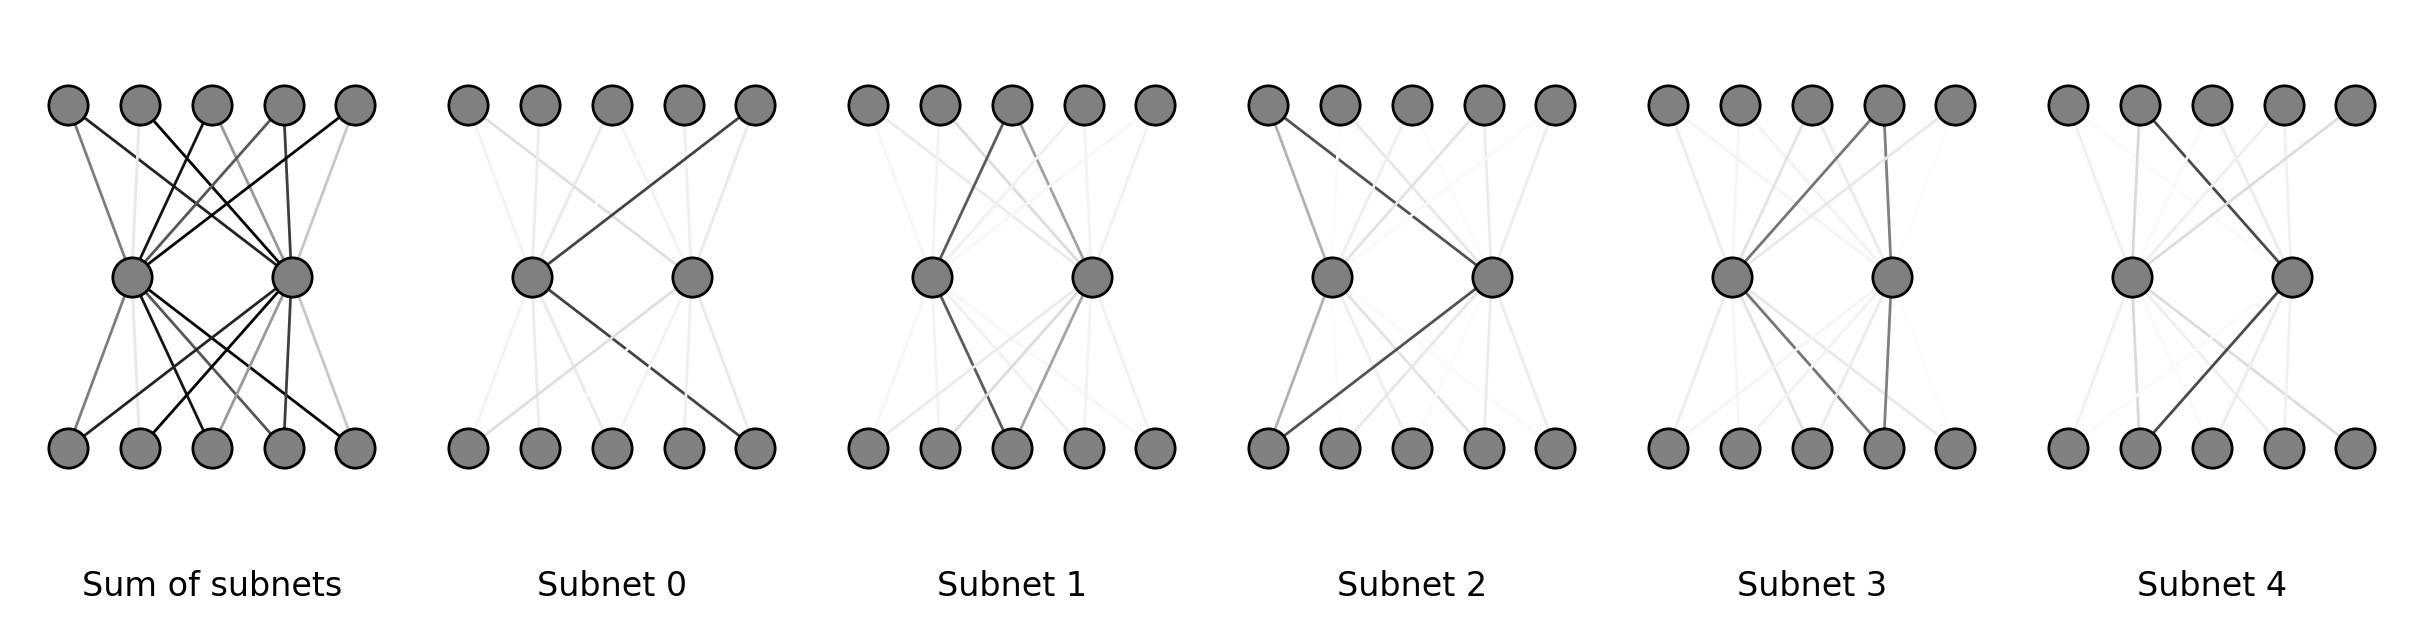
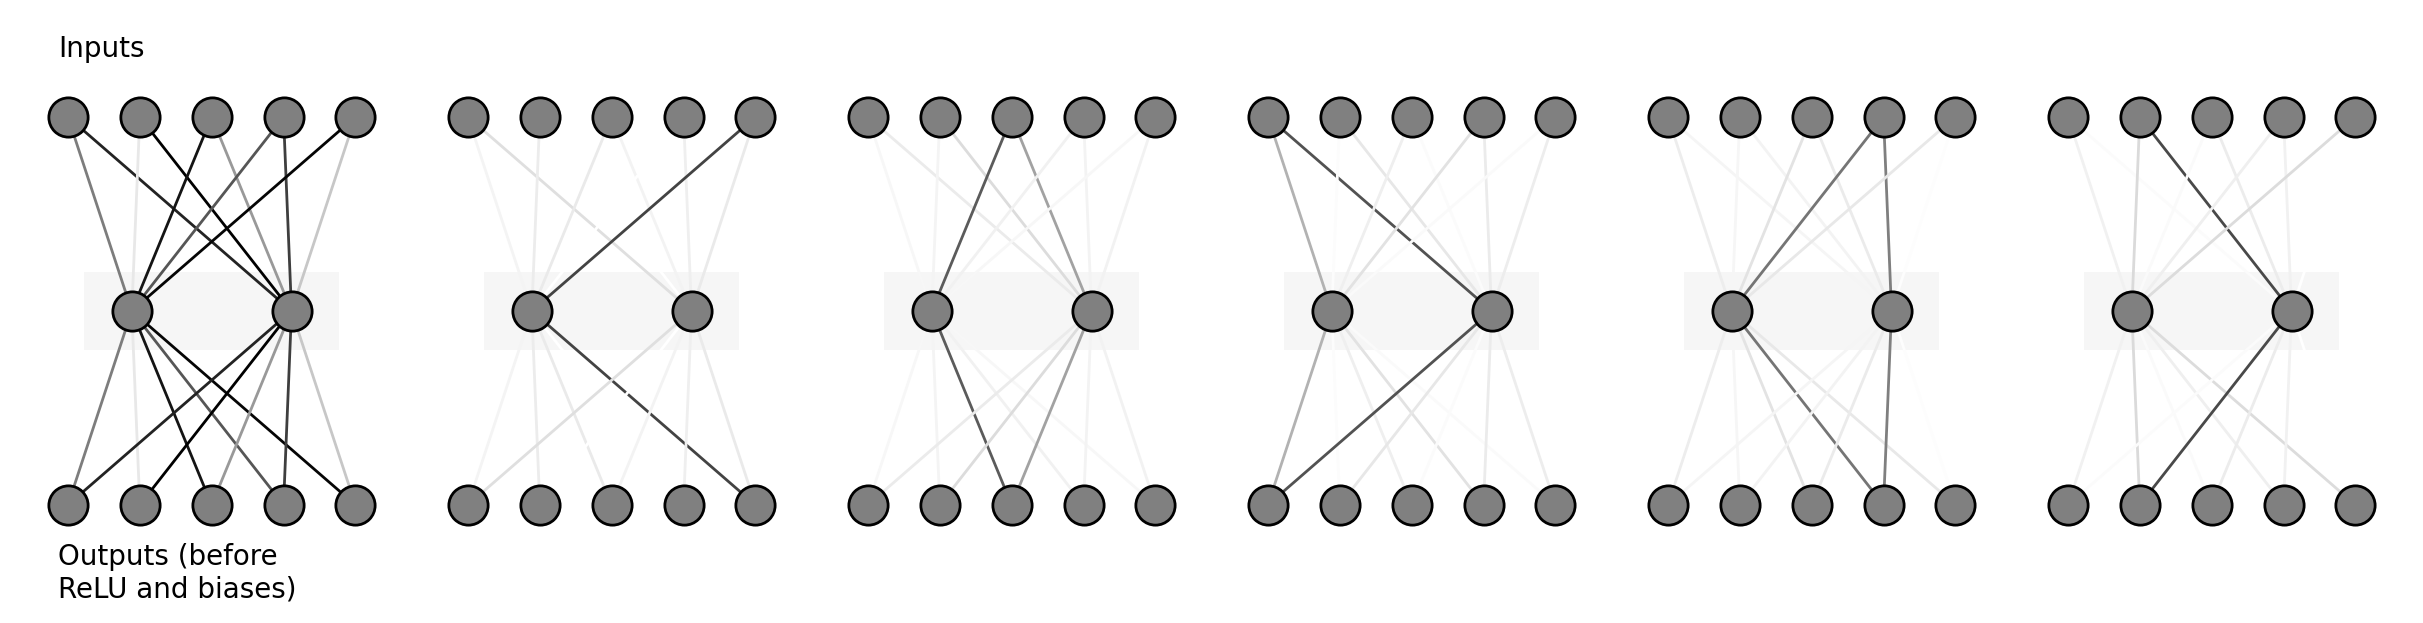
Update plot colors

diff --git a/spd/experiments/tms/interpret.py b/spd/experiments/tms/interpret.py
@@ -52,7 +52,7 @@ def plot_vectors(
 
             ax.set_aspect("equal")
             z = 1.5
-            ax.set_facecolor("#FCFBF8")
+            ax.set_facecolor("#f6f6f6")
             ax.set_xlim((-z, z))
             ax.set_ylim((-z, z))
             ax.tick_params(left=True, right=False, labelleft=False, labelbottom=False, bottom=True)
@@ -75,12 +75,14 @@ def plot_vectors(
 def plot_networks(
     subnets: Float[Tensor, "n_instances n_subnets n_features n_hidden"],
     n_instances: int | None = None,
+    has_labels: bool = True,
 ) -> plt.Figure:
     """Plot neural network diagrams for each W matrix in the subnet variable.
 
     Args:
         subnet: Tensor of shape [n_instances, n_subnets, n_features, n_hidden].
         n_instances: Number of data instances to plot. If None, plot all.
+        has_labels: Whether to add labels to the plot.
 
     Returns:
         Matplotlib Figure object containing the network diagrams.
@@ -109,6 +111,28 @@ def plot_networks(
     )
     axs = np.atleast_2d(np.array(axs))
 
+    # axs[0, 0].set_xlabel("Outputs (before ReLU and biases)")
+    # Add the above but in text because the x-axis is killed
+    axs[0, 0].text(
+        0.1,
+        0.05,
+        "Outputs (before\nReLU and biases)",
+        ha="left",
+        va="center",
+        transform=axs[0, 0].transAxes,
+        fontsize=LABEL_FONT_SIZE,
+    )
+    # Also add "input label"
+    axs[0, 0].text(
+        0.1,
+        0.95,
+        "Inputs",
+        ha="left",
+        va="center",
+        transform=axs[0, 0].transAxes,
+        fontsize=LABEL_FONT_SIZE,
+    )
+
     # Grayscale colormap. darker for larger weight
     cmap = plt.get_cmap("gray_r")
 
@@ -121,6 +145,21 @@ def plot_networks(
             x_input = np.linspace(0.05, 0.95, n_features)
             x_hidden = np.linspace(0.25, 0.75, n_hidden)
             x_output = np.linspace(0.05, 0.95, n_features)
+
+            # Add transparent grey box around hidden layer
+            box_width = 0.8
+            box_height = 0.4
+            box = plt.Rectangle(
+                (0.5 - box_width / 2, y_hidden - box_height / 2),
+                box_width,
+                box_height,
+                fill=True,
+                facecolor="#e4e4e4",
+                edgecolor="none",
+                alpha=0.33,
+                transform=ax.transData,
+            )
+            ax.add_patch(box)
 
             # Plot nodes
             ax.scatter(
@@ -165,29 +204,29 @@ def plot_networks(
             ax.set_xlim(-0.1, 1.1)
             ax.set_ylim(y_output - 0.5, y_input + 0.5)
 
-            # Add labels
-            if i == n_instances - 1:
-                label = "Sum of subnets" if j == 0 else f"Subnet {j - 1}"
-                ax.text(
-                    0.5,
-                    0,
-                    label,
-                    ha="center",
-                    va="center",
-                    transform=ax.transAxes,
-                    fontsize=LABEL_FONT_SIZE,
-                )
-            if j == 0 and n_instances > 1:
-                ax.text(
-                    -0.1,
-                    0.5,
-                    f"Instance {i}",
-                    ha="center",
-                    va="center",
-                    rotation=90,
-                    transform=ax.transAxes,
-                    fontsize=LABEL_FONT_SIZE,
-                )
+            if has_labels:
+                if i == n_instances - 1:
+                    label = "Sum of subnets" if j == 0 else f"Subnet {j - 1}"
+                    ax.text(
+                        0.5,
+                        0,
+                        label,
+                        ha="center",
+                        va="center",
+                        transform=ax.transAxes,
+                        fontsize=LABEL_FONT_SIZE,
+                    )
+                if j == 0 and n_instances > 1:
+                    ax.text(
+                        -0.1,
+                        0.5,
+                        f"Instance {i}",
+                        ha="center",
+                        va="center",
+                        rotation=90,
+                        transform=ax.transAxes,
+                        fontsize=LABEL_FONT_SIZE,
+                    )
 
     return fig
 
@@ -200,11 +239,14 @@ if __name__ == "__main__":
         config = Config(**config_dict)
 
     assert config.full_rank, "This script only works for full rank models"
-    subnet = torch.load(pretrained_path, map_location="cpu")["subnetwork_params"]
-    vector_fig = plot_vectors(subnet, n_instances=1)
+    model = torch.load(pretrained_path, map_location="cpu", weights_only=True)
+    subnets = model["subnetwork_params"]
+    bias = model["b_final"]
+    subnets = torch.load(pretrained_path, map_location="cpu")["subnetwork_params"]
+    vector_fig = plot_vectors(subnets, n_instances=1)
     vector_fig.savefig(pretrained_path.parent / "polygon_diagram.png", bbox_inches="tight", dpi=200)
     print(f"Saved figure to {pretrained_path.parent / 'polygon_diagram.png'}")
 
-    subnet_fig = plot_networks(subnet, n_instances=1)
+    subnet_fig = plot_networks(subnets, n_instances=1, has_labels=False)
     subnet_fig.savefig(pretrained_path.parent / "network_diagram.png", bbox_inches="tight", dpi=200)
     print(f"Saved figure to {pretrained_path.parent / 'network_diagram.png'}")
